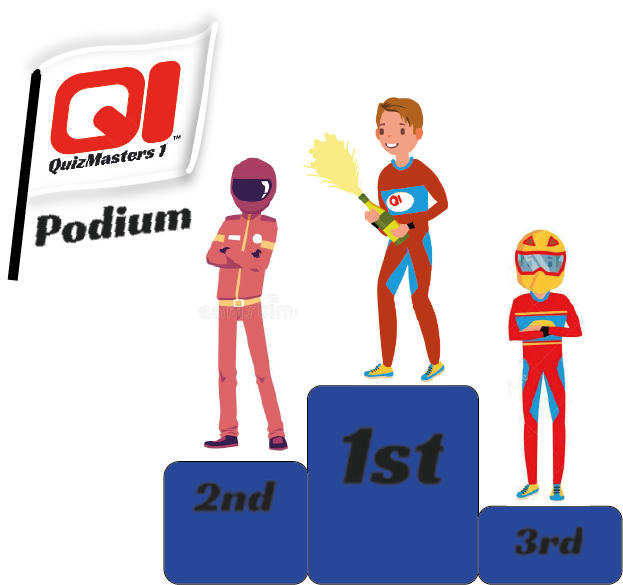
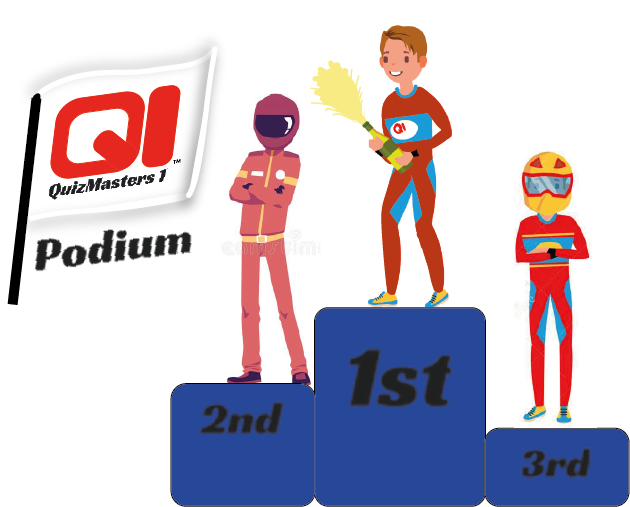
styling

Changed region(s): [[0.0, 0.0296, 1.0, 1.0], [0.9759, 0.9763, 1.0, 1.0]]

diff --git a/src/components/MenuForm/index.jsx b/src/components/MenuForm/index.jsx
@@ -19,7 +19,7 @@ const MenuForm = () => {
     const singlePlayButton = document.getElementById("single_play_button");
     singlePlayButton.className = "btn btn-primary";
     const multiPlayButton = document.getElementById("multi_play_button");
-    multiPlayButton.className = "btn btn-secondary";
+    multiPlayButton.className = "btn btnc btn-secondary";
     const intputFormDiv = document.getElementById("input_form");
     if (intputFormDiv !== undefined && intputFormDiv !== null) {
       intputFormDiv.innerHTML = DOMPurify.sanitize(html);
@@ -53,9 +53,9 @@ const MenuForm = () => {
         <div className="col"><label>Join room: </label><input type="text" id="pin" name="pin" placeHolder="PIN"></input><button id="join_multi_play_button" class="btn btn-primary">Join</button></div>
       </div>`;
     const singlePlayButton = document.getElementById("single_play_button");
-    singlePlayButton.className = "btn btnb btn-secondary";
+    singlePlayButton.className = "btn btn-secondary";
     const multiPlayButton = document.getElementById("multi_play_button");
-    multiPlayButton.className = "btn btn-primary";
+    multiPlayButton.className = "btn btnc btn-primary";
     const intputFormDiv = document.getElementById("input_form");
     if (intputFormDiv !== undefined && intputFormDiv !== null) {
       intputFormDiv.innerHTML = DOMPurify.sanitize(html);
@@ -96,8 +96,9 @@ const MenuForm = () => {
           <div className="col">
             <div className='images'></div>
             <div className='image2'></div>
-            <button id="single_play_button" className="btn btnb btn-secondary" onClick={handleSinglePlay}>Single Play</button>
-            <button id="multi_play_button" className="btn btn-secondary" onClick={handleMultiPlay}>Multi Play</button>
+            <div className='explanantion'><h1 className='title'>Motorsports now meets the Quizworld</h1></div>
+            <button id="single_play_button" className="btn btn-secondary" onClick={handleSinglePlay}>Single Play</button>
+            <button id="multi_play_button" className="btn btnc btn-secondary" onClick={handleMultiPlay}>Multi Play</button>
           </div>
         </div>
         <div className="row">

diff --git a/src/components/Timeline/index.jsx b/src/components/Timeline/index.jsx
@@ -1,7 +1,7 @@
 import React, {useEffect, useState} from 'react';
 import { Outlet } from 'react-router-dom';
 import DOMPurify from 'dompurify';
-import {Howl} from "howler"
+//import {Howl} from "howler"
 
 import './style.css';
 
@@ -19,17 +19,6 @@ const Timeline = ({players, totalLap}) => {
   //inline
   //dynamic values 
   //make each car move separate 
-
-  const soundSrc = './engine.mp3';
-
-  const callMySound = (src) => {
-    const sound= new Howl({
-      src, 
-      html5: true
-    })
-    sound.play()
-  };
-  
 
   //this useEffect currently only works for the 10 lap I still need to fix the 5 and 15 lap 
 
@@ -51,9 +40,9 @@ const Timeline = ({players, totalLap}) => {
   
     //callMySound(soundSrc);
   
-    useEffect(()=>{
+    /*useEffect(()=>{
       callMySound(soundSrc);
-    },[players])
+    },[players])*/
   
 
   /*const soundSrc = '../../../public/engine.mp3';

diff --git a/src/components/Question/index.js b/src/components/Question/index.js
@@ -282,7 +282,7 @@ const Question = ({playerId}) => {
                         <div class="row">
                             <div class="col">
                                 <div class="row justify-content-start">
-                                    <div class="col-1">
+                                    <div class="col">
                                         <div class="question_number">${ index + 1 }.</div>
                                     </div>
                                     <div class="col">

diff --git a/src/components/Radio/style.css b/src/components/Radio/style.css
@@ -4,17 +4,19 @@
     background-color: #000000;
     border-radius: 10px;
     width: 100px;
-    height: 200px;
+    height: fit-content;
     float: right;
     margin-right: 15px;
     padding: 3px;
     box-shadow: 1px 2px #808080;
     font-family: 'Racing Sans One';
     color: white;
+    margin-bottom: 10px;
 }
 
 .waveform{
-    width: 100px;
+    content: url('../../../public/waveform.jpg');
+    width: 90px;
     height: 50px;
 }
 

diff --git a/src/components/Podium/index.js b/src/components/Podium/index.js
@@ -8,11 +8,12 @@ const Podium = ({players}) => {
     return(
         <>
         <div className='podium'>
+            <span className="questionPodium">Will you make the podium?</span>
             {players.map((cul, index) => 
                 <h3>{cul.name}: <Timer time={cul.timer + cul.penalty} /></h3>
                 
             )}
-        </div>
+            </div>
         </>
     )
 }

diff --git a/src/pages/GameOver/index.jsx b/src/pages/GameOver/index.jsx
@@ -5,6 +5,7 @@ import { useSelector } from 'react-redux';
 import { Podium } from '../../components';
 
 
+
 const GameOver = () => {
 
 	const players = useSelector(state => state.playersReducer);
@@ -17,6 +18,7 @@ const GameOver = () => {
 	
 	return (
 		<>
+		<Podium players={players}/>
 		<div className="podium2"></div>
 		</>
 	);

diff --git a/src/components/Radio/index.jsx b/src/components/Radio/index.jsx
@@ -7,6 +7,7 @@ const Radio = ({message}) => {
         <>
             <div className='Wrapper'>
                 <span className='radioSpan'>Radio</span>
+                <div className="waveform"></div>
                 <h3 className="h31">{ message }</h3>
             </div>
         </>

diff --git a/src/components/MenuForm/styles.css b/src/components/MenuForm/styles.css
@@ -15,10 +15,11 @@
     float:right;
 }
 
-.btnb{
-    margin-right: 210px;
+.btnc{
+    float: right;
 }
 
-.playerLabel{
-    font-size: 16pt;
+.title{
+    text-align: center;
+    color: red;
 }

diff --git a/src/pages/GameOver/styles.css b/src/pages/GameOver/styles.css
@@ -5,5 +5,8 @@
 }
 
 .podium2{
-    content: url('../../../public/Podium.png');
+    background-image: url('../../../public/Podium.png');
+    height:500px;
+    width:630px;
+   
 }

diff --git a/src/pages/GameSettings/index.jsx b/src/pages/GameSettings/index.jsx
@@ -3,6 +3,8 @@ import GetQuestions from '../../components/GetQuestions';
 import './styles.css';
 
 const GameSettings = () => {
+
+
 	return (
 	<>
 	<div className="flag2">

diff --git a/src/pages/Intro/styles.css b/src/pages/Intro/styles.css
@@ -6,8 +6,8 @@
 
 .newImage{
     content: url('../../../public/driverpov.jpg');
-    width:700px;
-    height:300px;
+    width: 100%;
+    height:400px;
 }
 
 .centering{

diff --git a/src/pages/Rules/styles.css b/src/pages/Rules/styles.css
@@ -6,8 +6,8 @@
 
 .flag{
   background-image: url('../../../public/flag.png');
-  width: 700px;
-  height: 400px;
+  width: 100%;
+  height: 100%;
   font-size: 16pt;
 }
 
